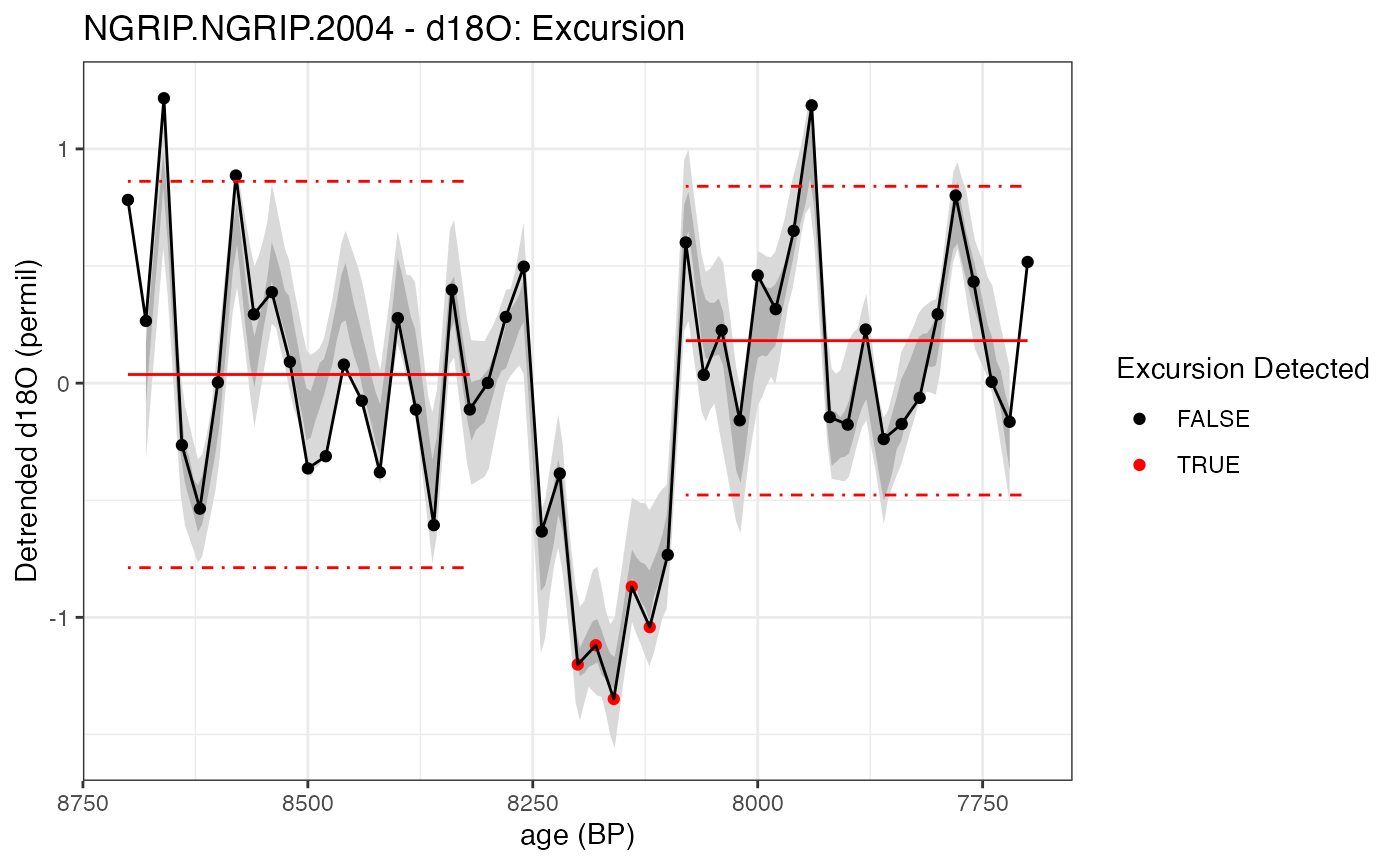
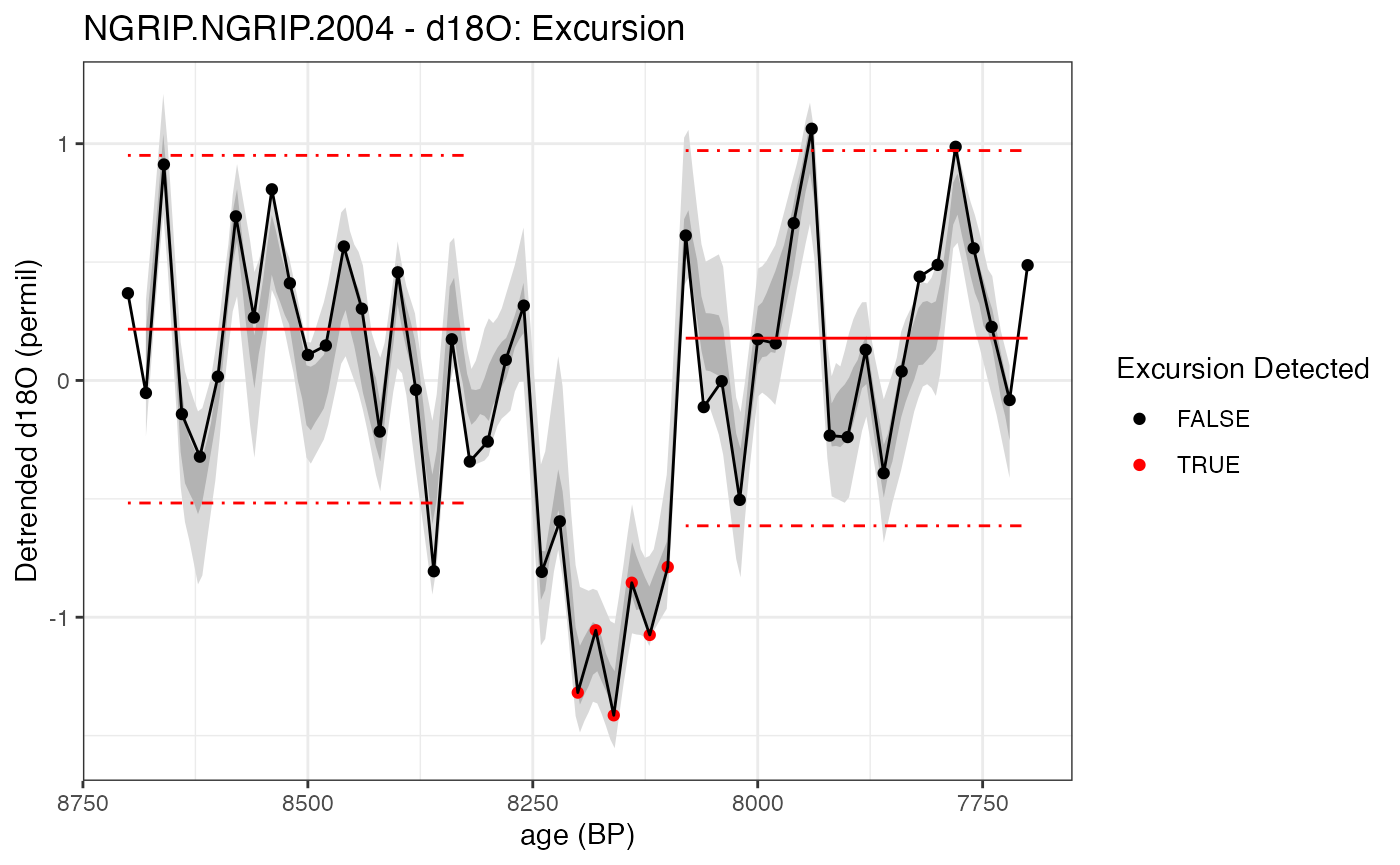
Deploying to gh-pages from @ LinkedEarth/actR@9887cf6b80a77013cc8c66802db0d96b0fe4bdd6 🚀

Changed region(s): [[0.0921, 0.0936, 0.4914, 0.8428], [0.4607, 0.1249, 0.7371, 0.6555], [0.0307, 0.437, 0.0614, 0.4682]]

diff --git a/articles/detectShift.html b/articles/detectShift.html
@@ -109,7 +109,7 @@
 <span><span class="co">#&gt; Selected SST_from_uk37_ensemble</span></span>
 <span><span class="co">#&gt; <span style="color: #BB00BB;">timeUnits is at least partially absent in the input data</span></span></span>
 <span><span class="co"><span style="color: #BB00BB;">#&gt; </span><span style="color: #00BB00;">Testing null hypothesis with 50 simulations, each with 50 ensemble members. </span></span></span>
-<span><span class="co"><span style="color: #00BB00;">#&gt; </span><span style="color: #0000BB;">This will probably take about 2 minutes</span></span></span>
+<span><span class="co"><span style="color: #00BB00;">#&gt; </span><span style="color: #0000BB;">This will probably take about 1 minutes</span></span></span>
 <span><span class="co"><span style="color: #0000BB;">#&gt; </span></span></span></code></pre></div>
 <p>This lines generates a textual summary of the output:</p>
 <div class="sourceCode" id="cb3"><pre class="downlit sourceCode r">
@@ -117,14 +117,13 @@
 <span><span class="co">#&gt; <span style="font-weight: bold;">GeoB7926_2.Kim.2012 - SST_from_uk37_ensemble: Shift in Mean results</span></span></span>
 <span><span class="co"><span style="font-weight: bold;">#&gt; </span><span style="color: #555555;">Searched for Shift in Mean with a minimum segment length of </span><span style="color: #555555; font-weight: bold;">8000</span><span style="color: #555555;"> years, summarizing the results over windows of 500 years.</span></span></span>
 <span><span class="co"><span style="color: #555555;">#&gt; </span></span></span>
-<span><span class="co">#&gt; <span style="font-weight: bold;">Overall result: Detected </span><span style="color: #00BB00; font-weight: bold;">4</span><span style="font-weight: bold;"> </span><span style="font-weight: bold; font-style: italic;">Shift in Mean</span><span style="font-weight: bold;"> event(s) that were significant at the alpha &lt; 0.05 level</span></span></span>
-<span><span class="co"><span style="font-weight: bold;">#&gt; </span><span style="color: #949494;"># A tibble: 4 × 3</span></span></span>
+<span><span class="co">#&gt; <span style="font-weight: bold;">Overall result: Detected </span><span style="color: #00BB00; font-weight: bold;">3</span><span style="font-weight: bold;"> </span><span style="font-weight: bold; font-style: italic;">Shift in Mean</span><span style="font-weight: bold;"> event(s) that were significant at the alpha &lt; 0.05 level</span></span></span>
+<span><span class="co"><span style="font-weight: bold;">#&gt; </span><span style="color: #949494;"># A tibble: 3 × 3</span></span></span>
 <span><span class="co">#&gt;   time_start time_end empirical_pvalue</span></span>
 <span><span class="co">#&gt;        <span style="color: #949494; font-style: italic;">&lt;dbl&gt;</span>    <span style="color: #949494; font-style: italic;">&lt;dbl&gt;</span>            <span style="color: #949494; font-style: italic;">&lt;dbl&gt;</span></span></span>
-<span><span class="co">#&gt; <span style="color: #BCBCBC;">1</span>      <span style="text-decoration: underline;">9</span>727.   <span style="text-decoration: underline;">10</span>227.                0</span></span>
+<span><span class="co">#&gt; <span style="color: #BCBCBC;">1</span>     <span style="text-decoration: underline;">18</span>727.   <span style="text-decoration: underline;">19</span>227.                0</span></span>
 <span><span class="co">#&gt; <span style="color: #BCBCBC;">2</span>     <span style="text-decoration: underline;">26</span>727.   <span style="text-decoration: underline;">27</span>227.                0</span></span>
-<span><span class="co">#&gt; <span style="color: #BCBCBC;">3</span>     <span style="text-decoration: underline;">18</span>227.   <span style="text-decoration: underline;">18</span>727.                0</span></span>
-<span><span class="co">#&gt; <span style="color: #BCBCBC;">4</span>     <span style="text-decoration: underline;">36</span>227.   <span style="text-decoration: underline;">36</span>727.                0</span></span>
+<span><span class="co">#&gt; <span style="color: #BCBCBC;">3</span>     <span style="text-decoration: underline;">10</span>227.   <span style="text-decoration: underline;">10</span>727.                0</span></span>
 <span><span class="co">#&gt; <span style="font-weight: bold;">Time uncertainty considered?</span> <span style="color: #00BB00;">TRUE</span> Time ensemble supplied (n = 100)</span></span>
 <span><span class="co">#&gt; <span style="font-weight: bold;">Paleo uncertainty considered?</span> <span style="color: #00BB00;">TRUE</span> Values ensemble supplied (n = 2500)</span></span>
 <span><span class="co">#&gt; Error propagation ensemble members = 50</span></span>

diff --git a/articles/detectExcursion.html b/articles/detectExcursion.html
@@ -172,7 +172,7 @@
 <span><span class="co">#&gt; <span style="font-weight: bold;">NGRIP.NGRIP.2004 - d18O: Excursion test results</span></span></span>
 <span><span class="co"><span style="font-weight: bold;">#&gt; </span><span style="color: #555555;">Searched for </span><span style="color: #555555; font-weight: bold;">negative</span><span style="color: #555555;"> excursions in a </span><span style="color: #555555; font-weight: bold;">200</span><span style="color: #555555;"> year window around </span><span style="color: #555555; font-weight: bold;">8200</span><span style="color: #555555;"> BP, with reference windows of </span><span style="color: #555555; font-weight: bold;">400</span><span style="color: #555555;"> years on either side.</span></span></span>
 <span><span class="co"><span style="color: #555555;">#&gt; </span></span></span>
-<span><span class="co">#&gt; <span style="font-weight: bold;">Overall result: Empirical p-value = </span><span style="color: #00BB00; font-weight: bold;">0</span></span></span>
+<span><span class="co">#&gt; <span style="font-weight: bold;">Overall result: Empirical p-value = </span><span style="color: #00BB00; font-weight: bold;">0.04</span></span></span>
 <span><span class="co"><span style="font-weight: bold;">#&gt; </span>Time uncertainty considered? <span style="color: #BB0000;">FALSE</span></span></span>
 <span><span class="co">#&gt; Paleo uncertainty considered? <span style="color: #00BB00;">TRUE</span></span></span>
 <span><span class="co">#&gt; Error propagation ensemble members = 50</span></span>
